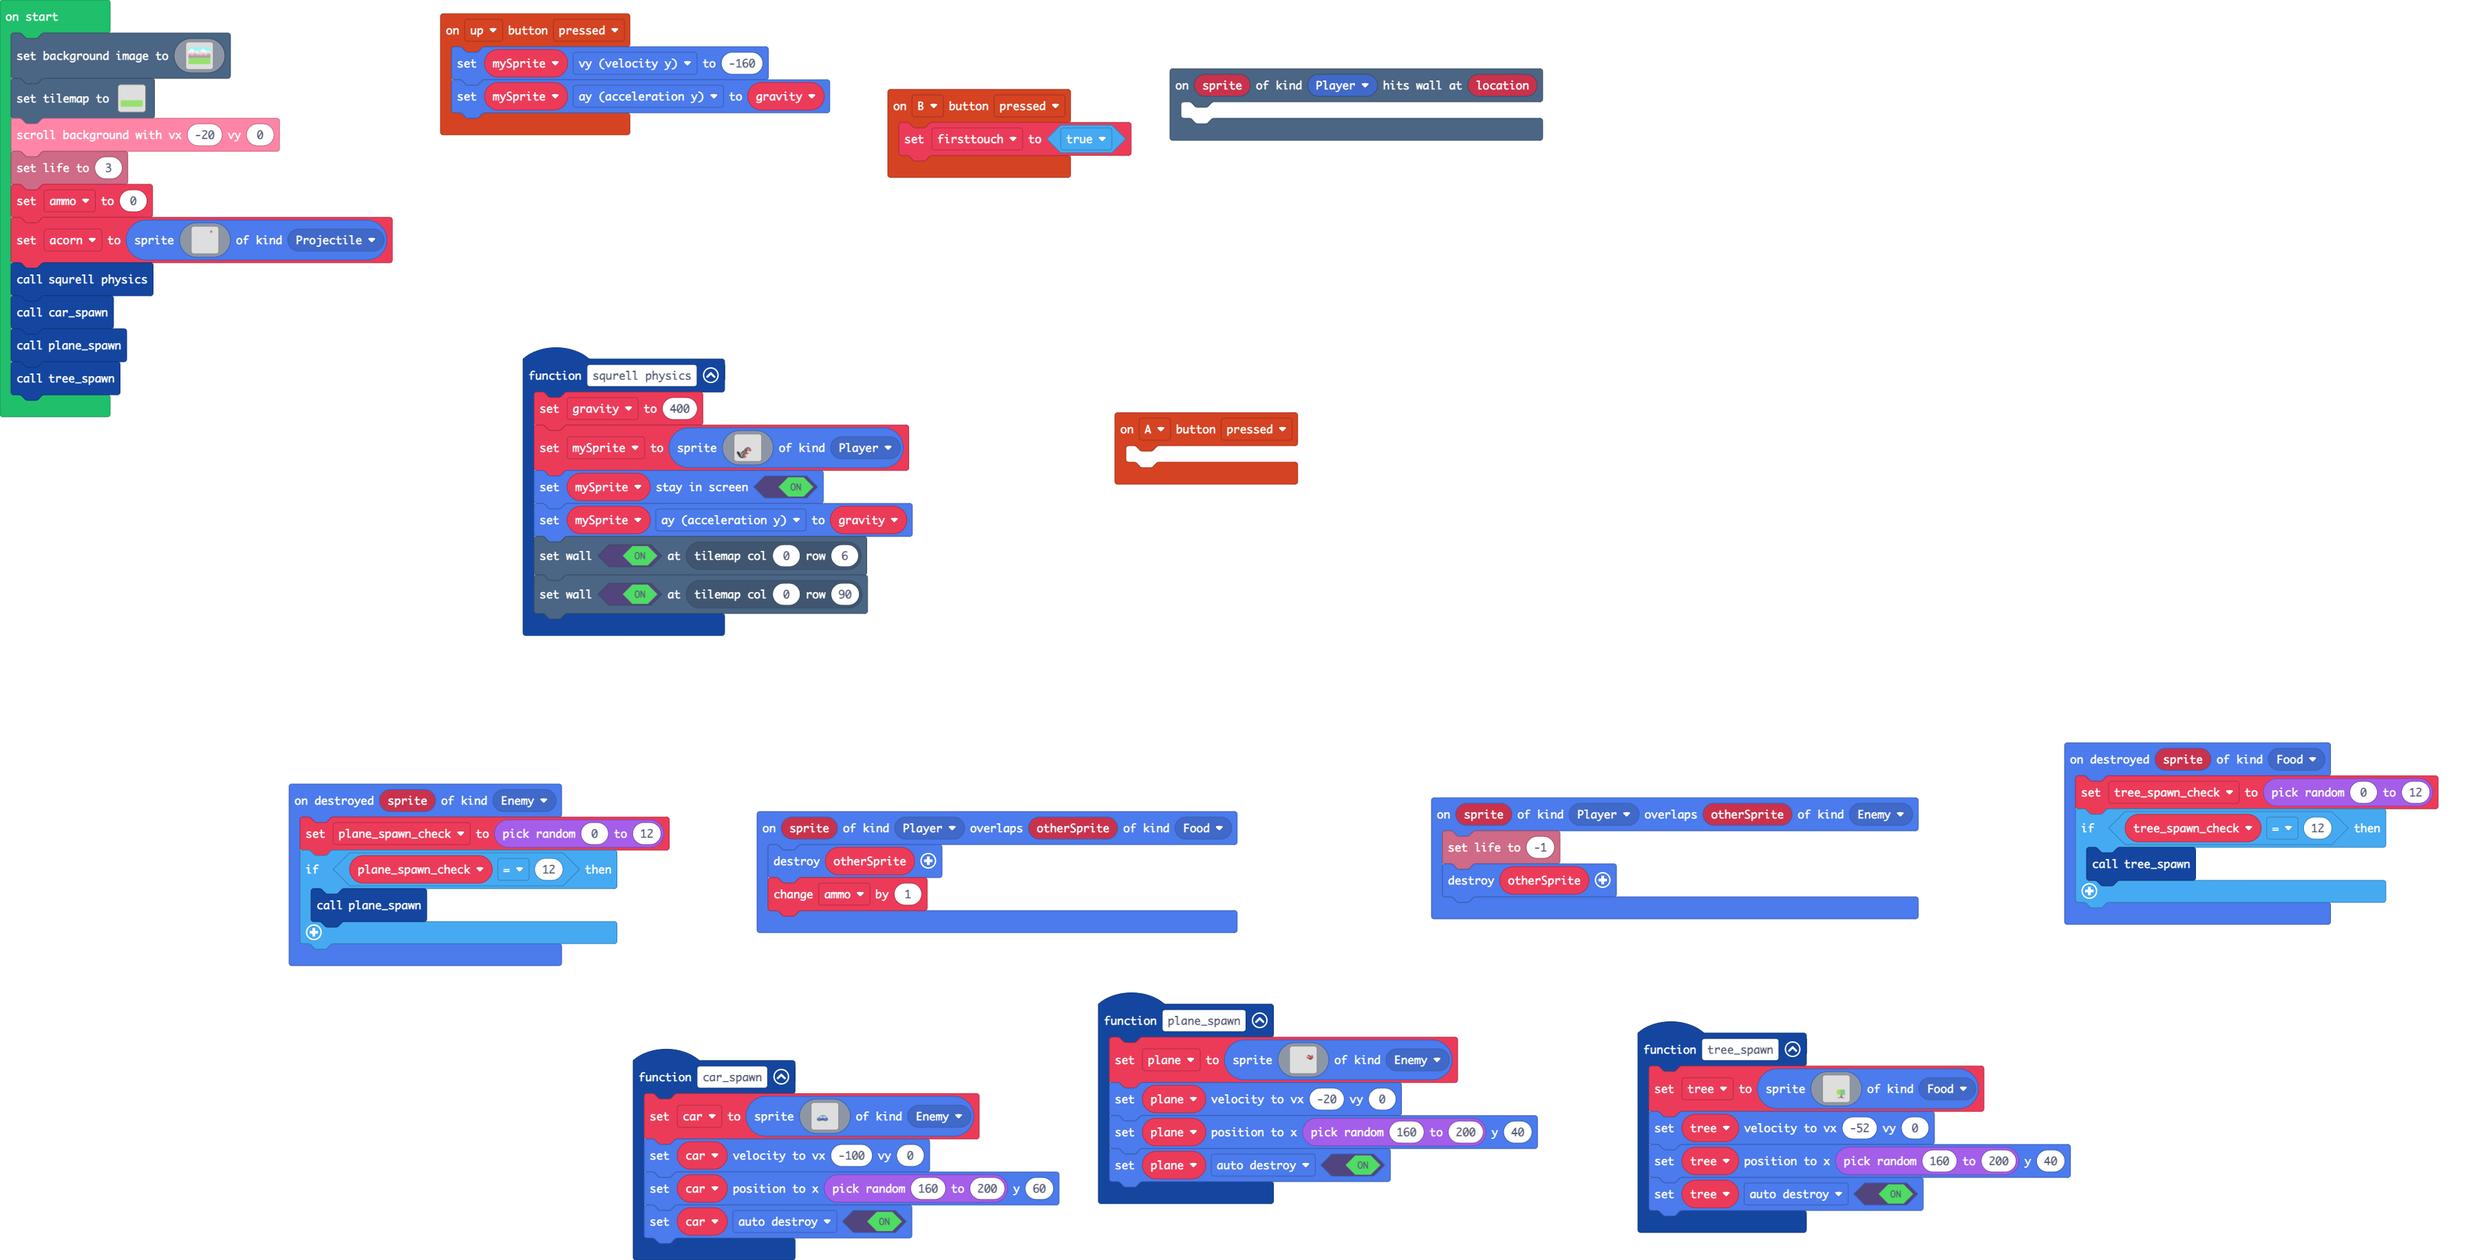
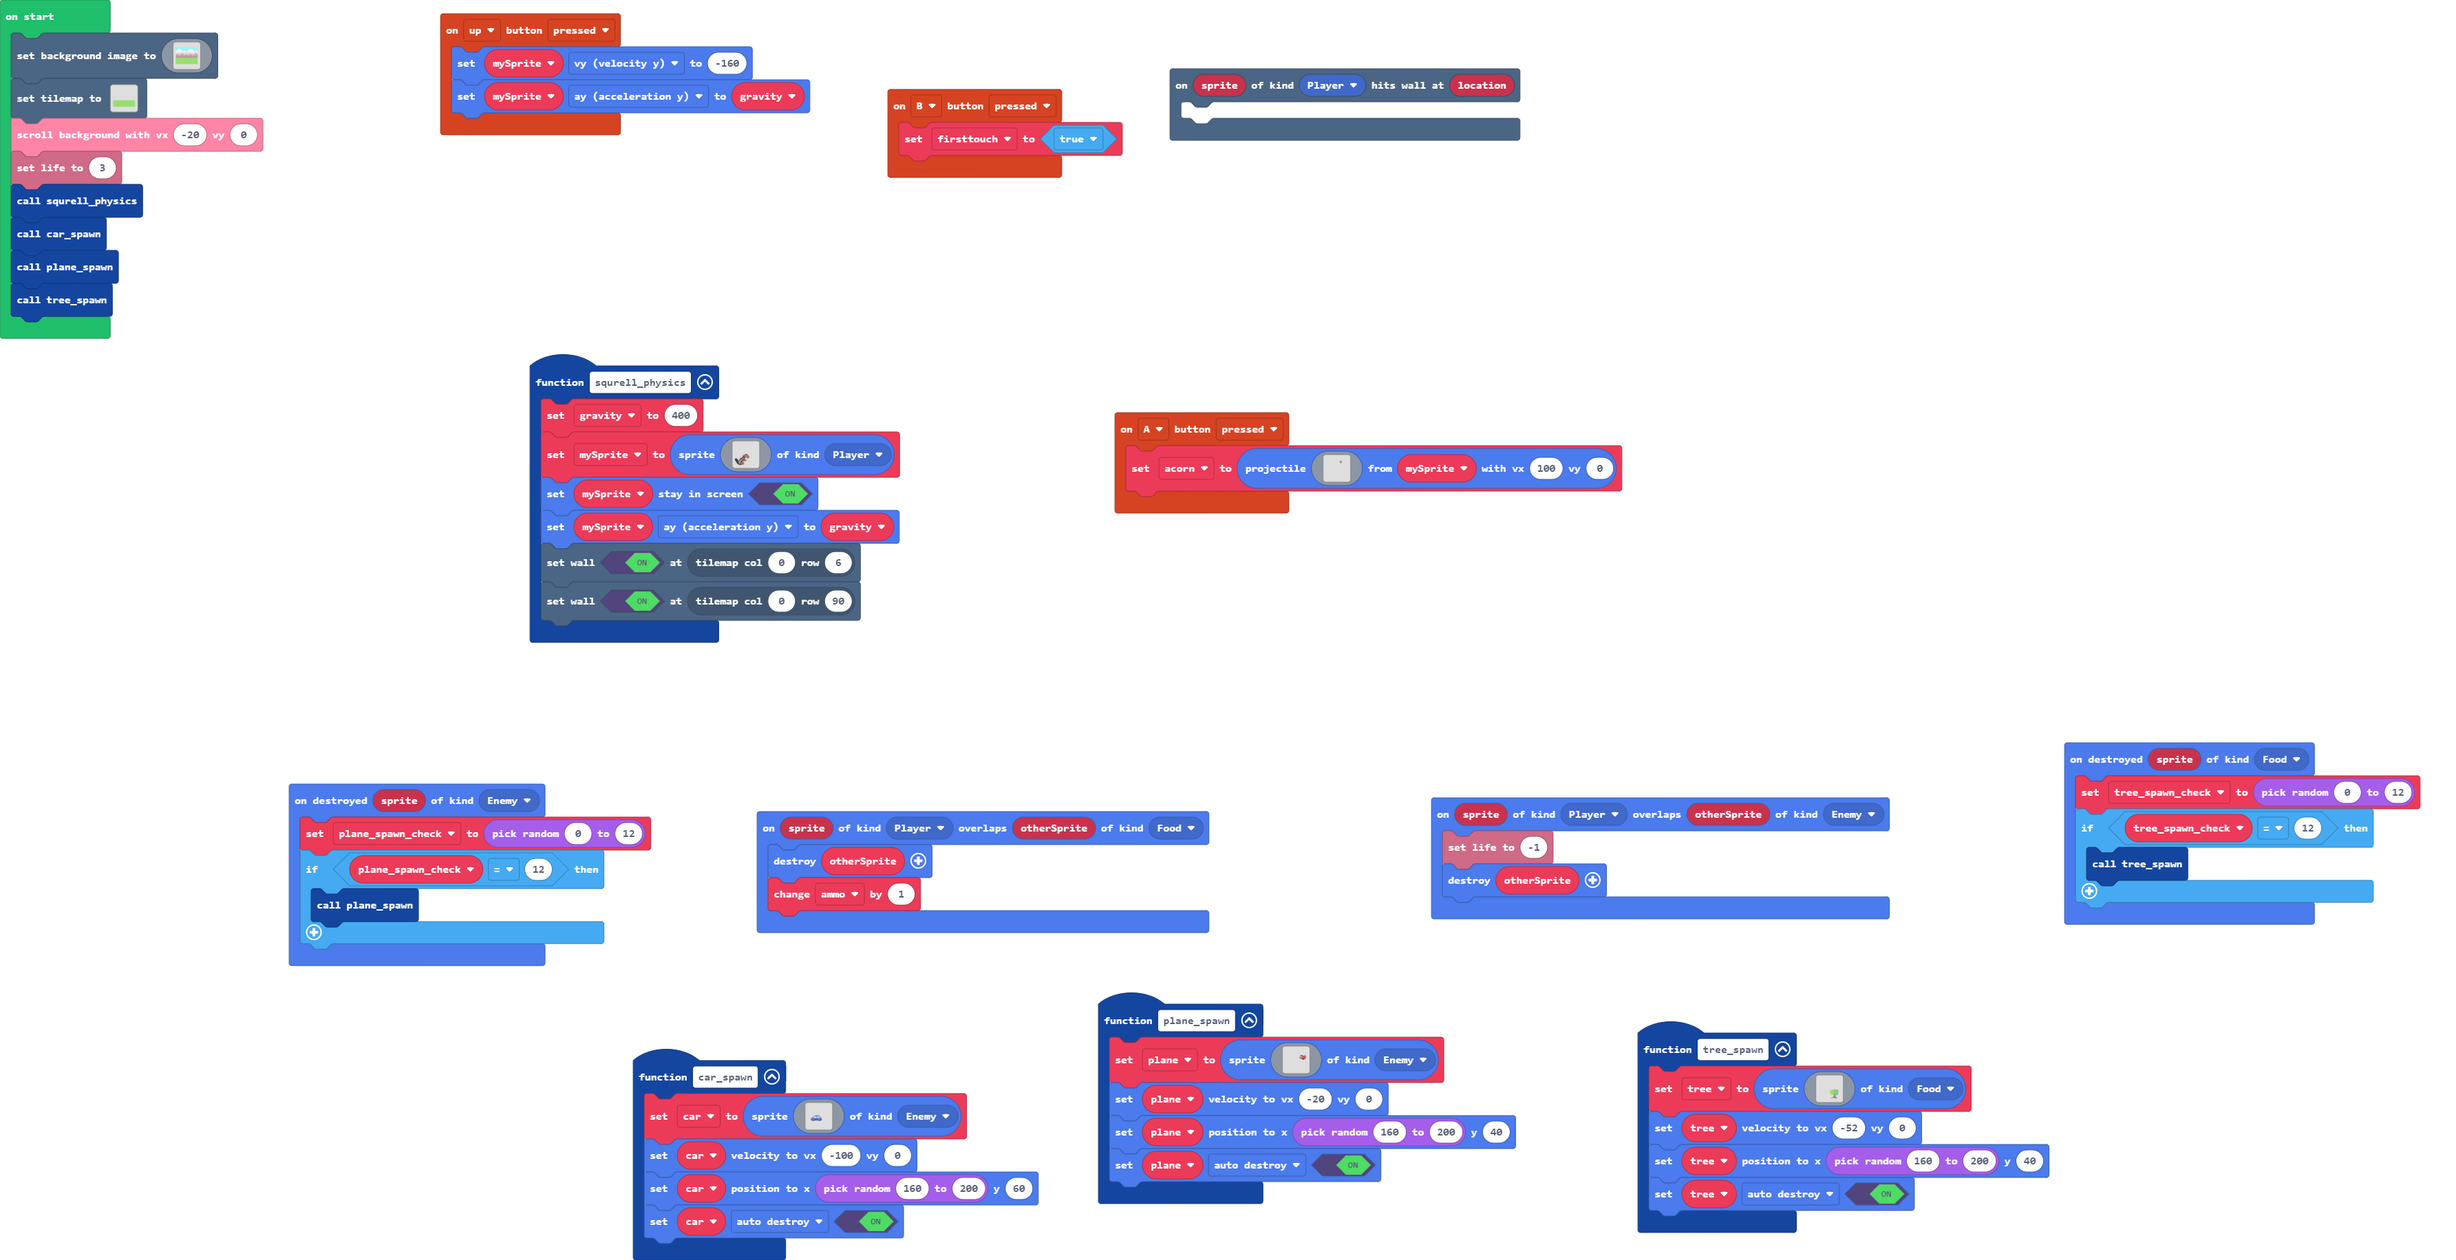
Update main.blocks, main.ts

diff --git a/main.ts b/main.ts
@@ -101,15 +101,6 @@ function tree_spawn () {
     tree.setPosition(randint(160, 200), 40)
     tree.setFlag(SpriteFlag.AutoDestroy, true)
 }
-controller.A.onEvent(ControllerButtonEvent.Pressed, function () {
-	
-})
-function car_spawn () {
-    car = sprites.create(assets.image`Car`, SpriteKind.Enemy)
-    car.setVelocity(-100, 0)
-    car.setPosition(randint(160, 200), 60)
-    car.setFlag(SpriteFlag.AutoDestroy, true)
-}
 function squrell_physics () {
     gravity = 400
     mySprite = sprites.create(assets.image`Squirrel`, SpriteKind.Player)
@@ -117,6 +108,96 @@ function squrell_physics () {
     mySprite.ay = gravity
     tiles.setWallAt(tiles.getTileLocation(0, 6), true)
     tiles.setWallAt(tiles.getTileLocation(0, 90), true)
+}
+controller.A.onEvent(ControllerButtonEvent.Pressed, function () {
+    acorn = sprites.createProjectileFromSprite(img`
+        ................................................................................
+        ................................................................................
+        ................................................................................
+        ................................................................................
+        ................................................................................
+        ................................................................................
+        ................................................................................
+        ................................................................................
+        ................................................................................
+        ................................................................................
+        ................................................................................
+        ................................................................................
+        .....................................................cc.........................
+        ......................................................c.........................
+        ....................................................ccccc.......................
+        ...................................................ceeeeec......................
+        ...................................................ccccccc......................
+        ....................................................e444e.......................
+        ....................................................e444e.......................
+        ....................................................e444e.......................
+        .....................................................eee........................
+        ................................................................................
+        ................................................................................
+        ................................................................................
+        ................................................................................
+        ................................................................................
+        ................................................................................
+        ................................................................................
+        ................................................................................
+        ................................................................................
+        ................................................................................
+        ................................................................................
+        ................................................................................
+        ................................................................................
+        ................................................................................
+        ................................................................................
+        ................................................................................
+        ................................................................................
+        ................................................................................
+        ................................................................................
+        ................................................................................
+        ................................................................................
+        ................................................................................
+        ................................................................................
+        ................................................................................
+        ................................................................................
+        ................................................................................
+        ................................................................................
+        ................................................................................
+        ................................................................................
+        ................................................................................
+        ................................................................................
+        ................................................................................
+        ................................................................................
+        ................................................................................
+        ................................................................................
+        ................................................................................
+        ................................................................................
+        ................................................................................
+        ................................................................................
+        ................................................................................
+        ................................................................................
+        ................................................................................
+        ................................................................................
+        ................................................................................
+        ................................................................................
+        ................................................................................
+        ................................................................................
+        ................................................................................
+        ................................................................................
+        ................................................................................
+        ................................................................................
+        ................................................................................
+        ................................................................................
+        ................................................................................
+        ................................................................................
+        ................................................................................
+        ................................................................................
+        ................................................................................
+        ................................................................................
+        `, mySprite, 100, 0)
+})
+function car_spawn () {
+    car = sprites.create(assets.image`Car`, SpriteKind.Enemy)
+    car.setVelocity(-100, 0)
+    car.setPosition(randint(160, 200), 60)
+    car.setFlag(SpriteFlag.AutoDestroy, true)
 }
 sprites.onOverlap(SpriteKind.Player, SpriteKind.Food, function (sprite, otherSprite) {
     otherSprite.destroy()
@@ -221,7 +302,9 @@ function plane_spawn () {
 }
 let plane: Sprite = null
 let plane_spawn_check = 0
+let ammo = 0
 let car: Sprite = null
+let acorn: Sprite = null
 let tree: Sprite = null
 let tree_spawn_check = 0
 let firsttouch = false
@@ -352,89 +435,6 @@ scene.setBackgroundImage(img`
 tiles.setTilemap(tilemap`level2`)
 scroller.scrollBackgroundWithSpeed(-20, 0)
 info.setLife(3)
-let ammo = 0
-let acorn = sprites.create(img`
-    ................................................................................
-    ................................................................................
-    ................................................................................
-    ................................................................................
-    ................................................................................
-    .............................................................cc.................
-    ..............................................................c.................
-    ............................................................ccccc...............
-    ...........................................................ceeeeec..............
-    ...........................................................ccccccc..............
-    ............................................................e444e...............
-    ............................................................e444e...............
-    ............................................................e444e...............
-    .............................................................eee................
-    ................................................................................
-    ................................................................................
-    ................................................................................
-    ................................................................................
-    ................................................................................
-    ................................................................................
-    ................................................................................
-    ................................................................................
-    ................................................................................
-    ................................................................................
-    ................................................................................
-    ................................................................................
-    ................................................................................
-    ................................................................................
-    ................................................................................
-    ................................................................................
-    ................................................................................
-    ................................................................................
-    ................................................................................
-    ................................................................................
-    ................................................................................
-    ................................................................................
-    ................................................................................
-    ................................................................................
-    ................................................................................
-    ................................................................................
-    ................................................................................
-    ................................................................................
-    ................................................................................
-    ................................................................................
-    ................................................................................
-    ................................................................................
-    ................................................................................
-    ................................................................................
-    ................................................................................
-    ................................................................................
-    ................................................................................
-    ................................................................................
-    ................................................................................
-    ................................................................................
-    ................................................................................
-    ................................................................................
-    ................................................................................
-    ................................................................................
-    ................................................................................
-    ................................................................................
-    ................................................................................
-    ................................................................................
-    ................................................................................
-    ................................................................................
-    ................................................................................
-    ................................................................................
-    ................................................................................
-    ................................................................................
-    ................................................................................
-    ................................................................................
-    ................................................................................
-    ................................................................................
-    ................................................................................
-    ................................................................................
-    ................................................................................
-    ................................................................................
-    ................................................................................
-    ................................................................................
-    ................................................................................
-    ................................................................................
-    `, SpriteKind.Projectile)
 squrell_physics()
 car_spawn()
 plane_spawn()
